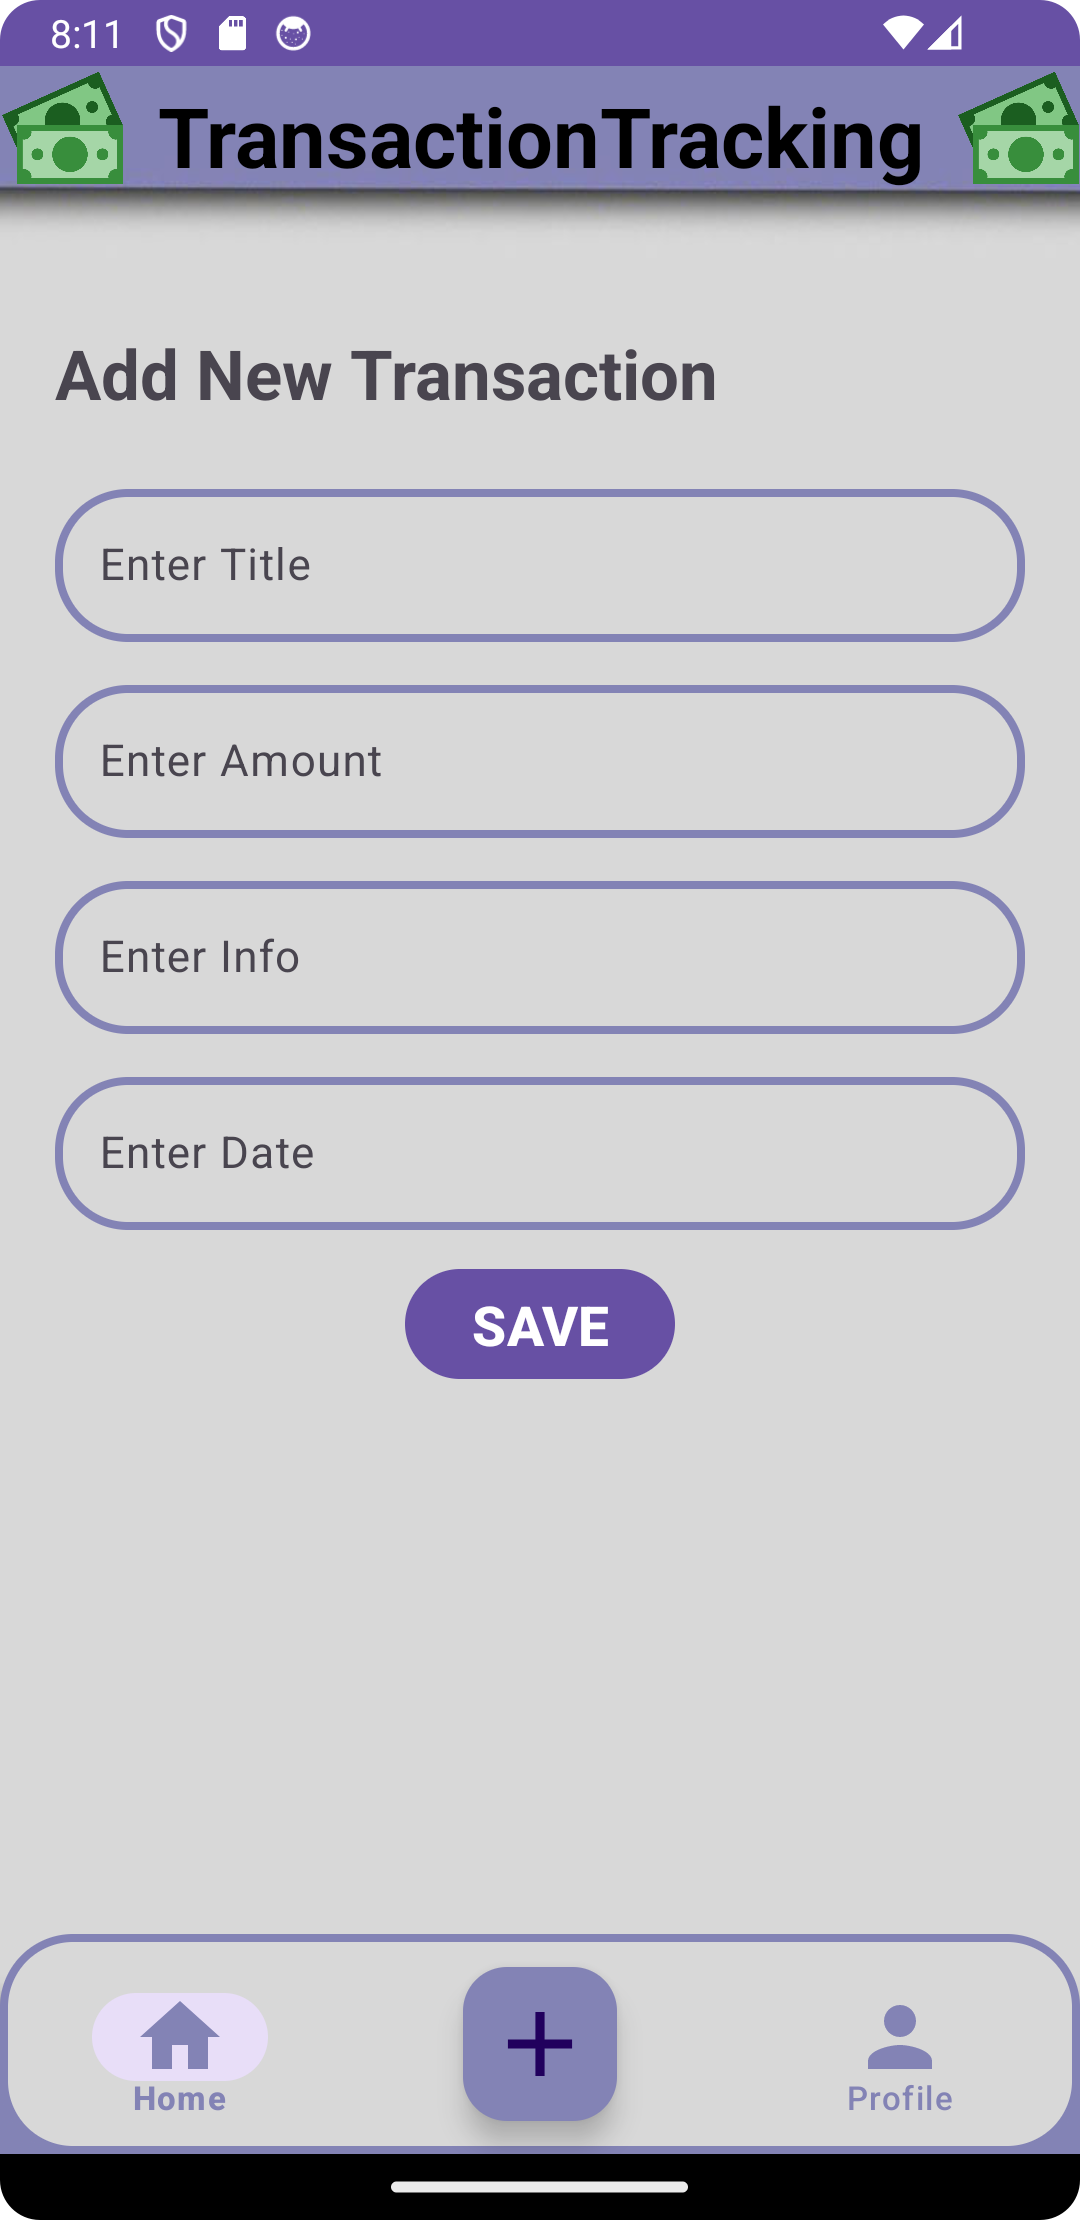
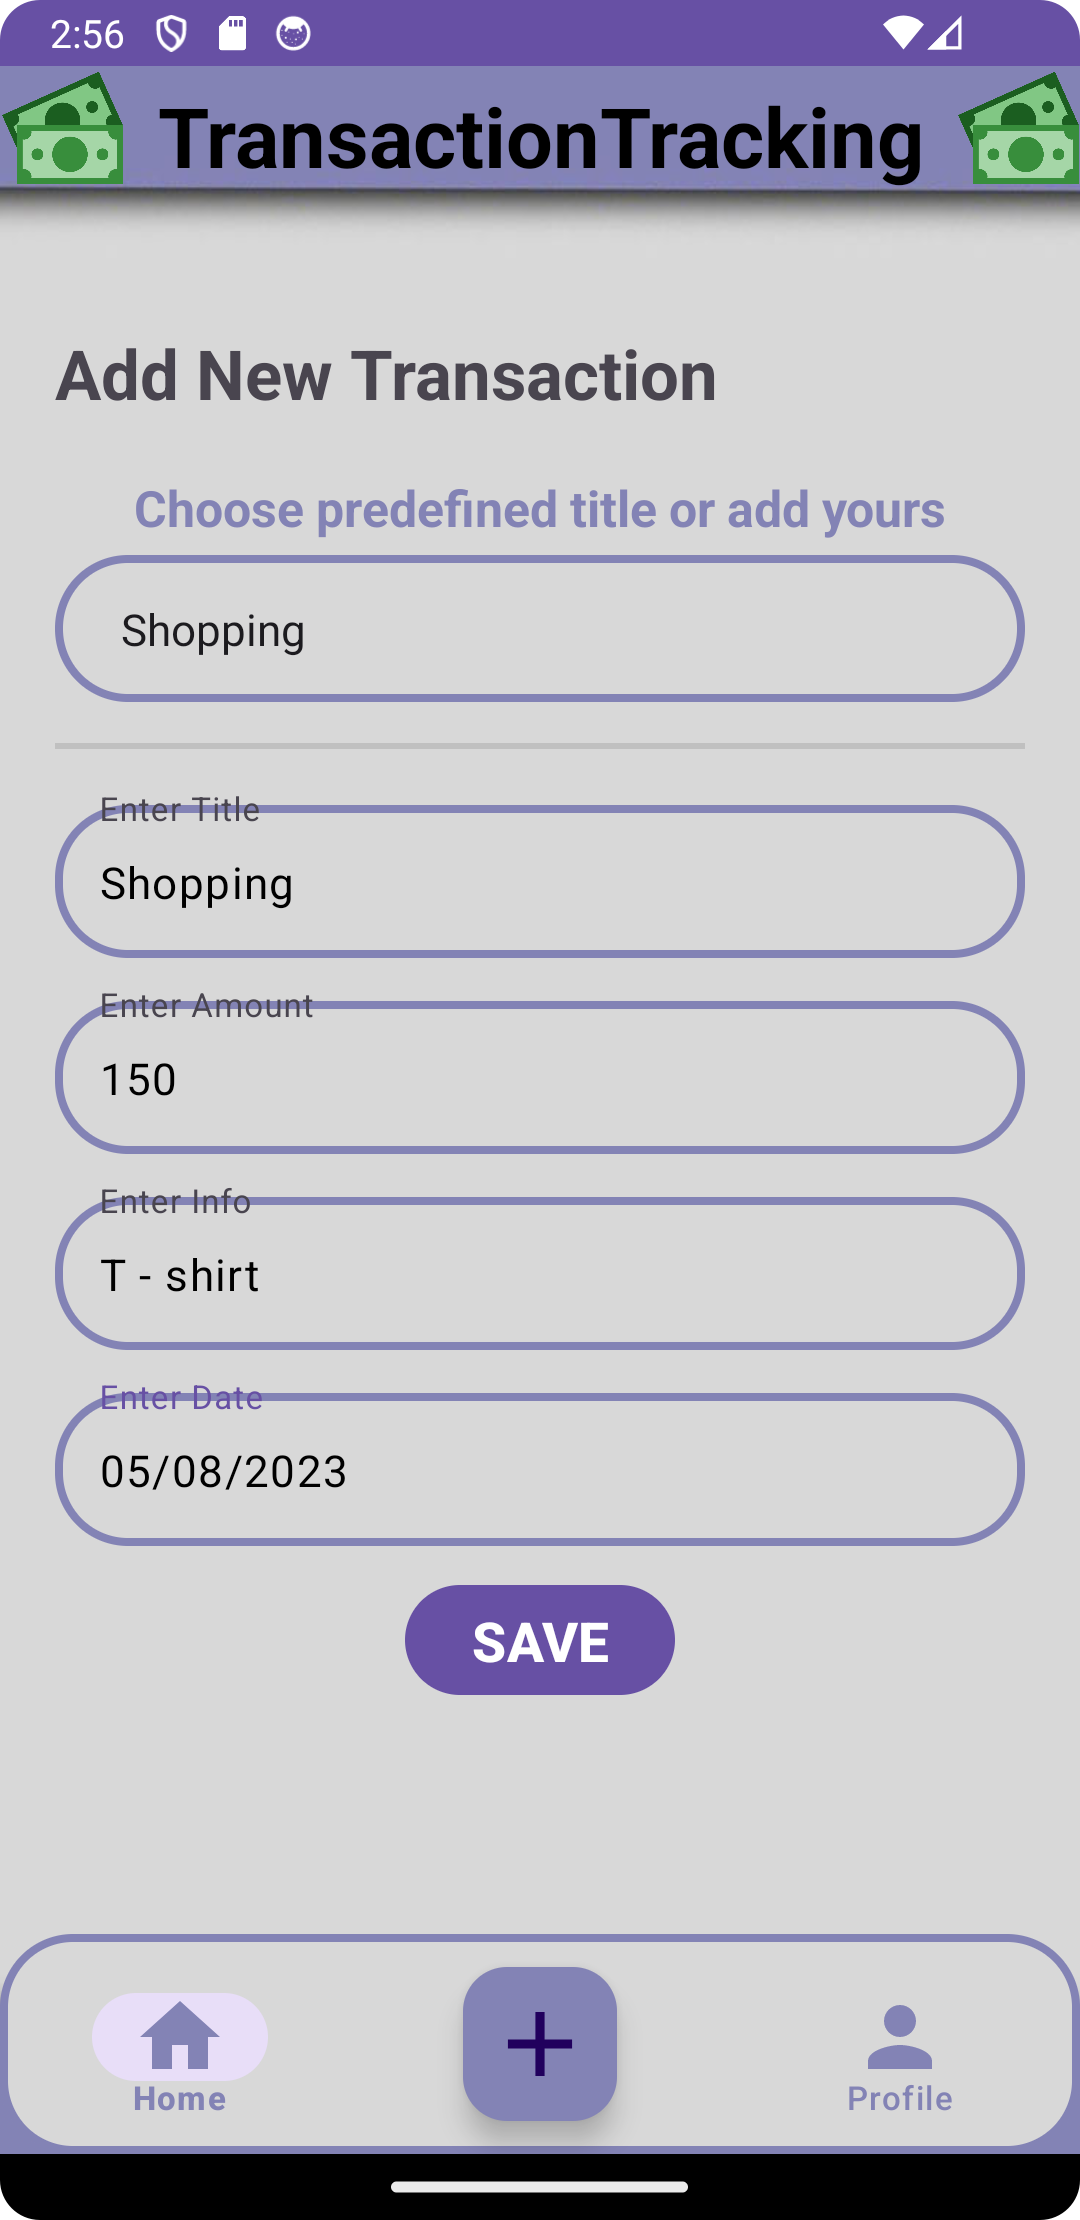
Added Option To Chose Predefined Title

diff --git a/app/src/main/java/com/example/pracenjetransakcija/fragments/AddTransactionFragment.kt b/app/src/main/java/com/example/pracenjetransakcija/fragments/AddTransactionFragment.kt
@@ -5,8 +5,11 @@ import androidx.fragment.app.Fragment
 import android.view.LayoutInflater
 import android.view.View
 import android.view.ViewGroup
+import android.widget.AdapterView
+import android.widget.ArrayAdapter
 import android.widget.Button
 import android.widget.EditText
+import android.widget.Spinner
 import android.widget.Toast
 import com.example.pracenjetransakcija.R
 import com.example.pracenjetransakcija.models.TransactionData
@@ -19,9 +22,10 @@ class AddTransactionFragment : Fragment() {
     private lateinit var database: DatabaseReference
     private lateinit var firebaseAuth: FirebaseAuth
 
+    private var spinnerOptions = arrayOf("Maintenance", "Salary", "Shopping", "Online", "Savings")
+
     override fun onCreate(savedInstanceState: Bundle?) {
         super.onCreate(savedInstanceState)
-
     }
 
     override fun onCreateView(
@@ -31,6 +35,52 @@ class AddTransactionFragment : Fragment() {
         // Inflate the layout for this fragment
 
         val view: View = inflater.inflate(R.layout.fragment_add_transaction, container, false)
+
+        val dropDownMenu = view.findViewById<Spinner>(R.id.spinnerOptions)
+        val adapter = ArrayAdapter(requireContext(), android.R.layout.simple_spinner_item, spinnerOptions)
+
+        adapter.setDropDownViewResource(android.R.layout.simple_spinner_item)
+
+        dropDownMenu.adapter = adapter
+        var titleEdit = view.findViewById<EditText>(R.id.title_edit)
+
+        dropDownMenu.onItemSelectedListener = object : AdapterView.OnItemSelectedListener {
+            override fun onItemSelected(
+                parent: AdapterView<*>?,
+                view: View?,
+                position: Int,
+                id: Long
+            ) {
+                val selectedItem = spinnerOptions[position]
+                when (selectedItem){
+                    "Maintenance" -> {
+                        titleEdit.setText(selectedItem)
+                        Toast.makeText(context, selectedItem, Toast.LENGTH_SHORT).show()
+                    }
+                    "Salary" -> {
+                        titleEdit.setText(selectedItem)
+                        Toast.makeText(context, selectedItem, Toast.LENGTH_SHORT).show()
+                    }
+                    "Shopping" -> {
+                        titleEdit.setText(selectedItem)
+                        Toast.makeText(context, selectedItem, Toast.LENGTH_SHORT).show()
+                    }
+                    "Online" -> {
+                        titleEdit.setText(selectedItem)
+                        Toast.makeText(context, selectedItem, Toast.LENGTH_SHORT).show()
+                    }
+                    "Savings" -> {
+                        titleEdit.setText(selectedItem)
+                        Toast.makeText(context, selectedItem, Toast.LENGTH_SHORT).show()
+                    }
+                }
+            }
+
+            override fun onNothingSelected(parent: AdapterView<*>?) {
+                TODO("Not yet implemented")
+            }
+
+        }
 
         view.findViewById<Button>(R.id.saveBtn).setOnClickListener {
 

diff --git a/app/src/main/java/com/example/pracenjetransakcija/adapters/TransactionAdapter.kt b/app/src/main/java/com/example/pracenjetransakcija/adapters/TransactionAdapter.kt
@@ -5,9 +5,12 @@ import android.graphics.Color
 import android.view.LayoutInflater
 import android.view.View
 import android.view.ViewGroup
+import android.widget.FrameLayout
 import android.widget.ImageView
+import android.widget.SearchView
 import android.widget.TextView
 import android.widget.Toast
+import androidx.core.view.contains
 import androidx.recyclerview.widget.RecyclerView
 import com.example.pracenjetransakcija.R
 import com.example.pracenjetransakcija.TransactionInfoActivity
@@ -67,7 +70,7 @@ class TransactionAdapter(private var transactionList: ArrayList<TransactionData>
             //Recyclerview onClickListener to NewActivty
             //prosledjivanje se vrsi putem intent
             holder.itemView.setOnClickListener {
-                Toast.makeText(holder.itemView.context, "Transaction key: " + transactionList[position].key, Toast.LENGTH_SHORT).show()
+                // Toast.makeText(holder.itemView.context, "Transaction key: " + transactionList[position].key, Toast.LENGTH_SHORT).show()
                 Toast.makeText(holder.itemView.context, "Transaction number: $position", Toast.LENGTH_SHORT).show()
                 val intent = Intent(holder.itemView.context, TransactionInfoActivity::class.java)
                 intent.putExtra("key", transactionList[position].key)
@@ -80,8 +83,8 @@ class TransactionAdapter(private var transactionList: ArrayList<TransactionData>
         }
     }
 
-    fun searchTransactionList(searchList: ArrayList<TransactionData>) {
-        transactionList = searchList
-        notifyDataSetChanged()
+    fun searchTransactionList() {
+        //TODO
+        transactionList
     }
 }
